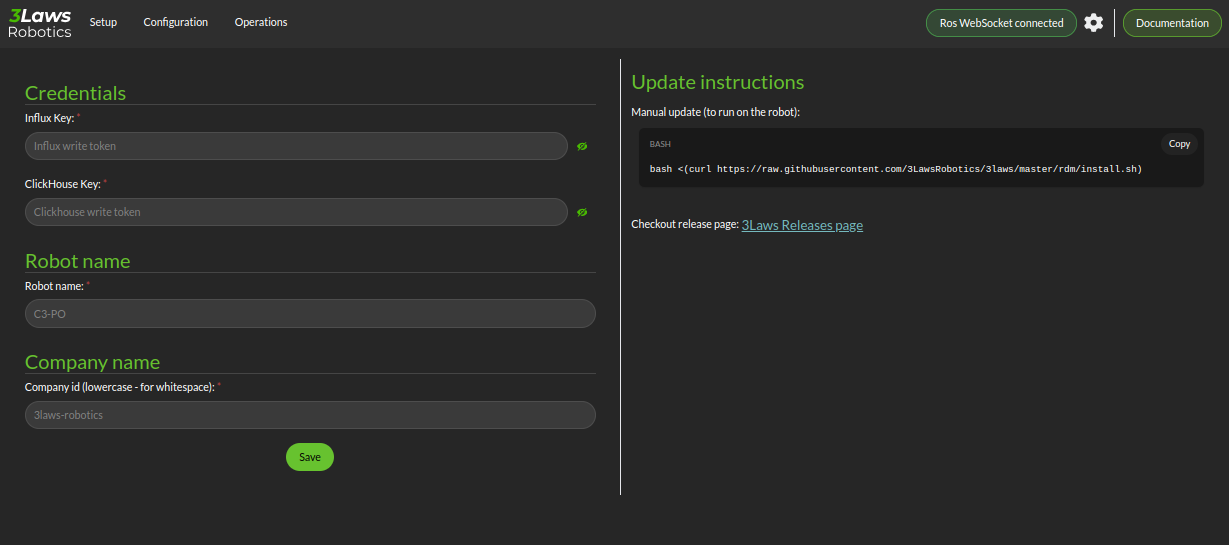
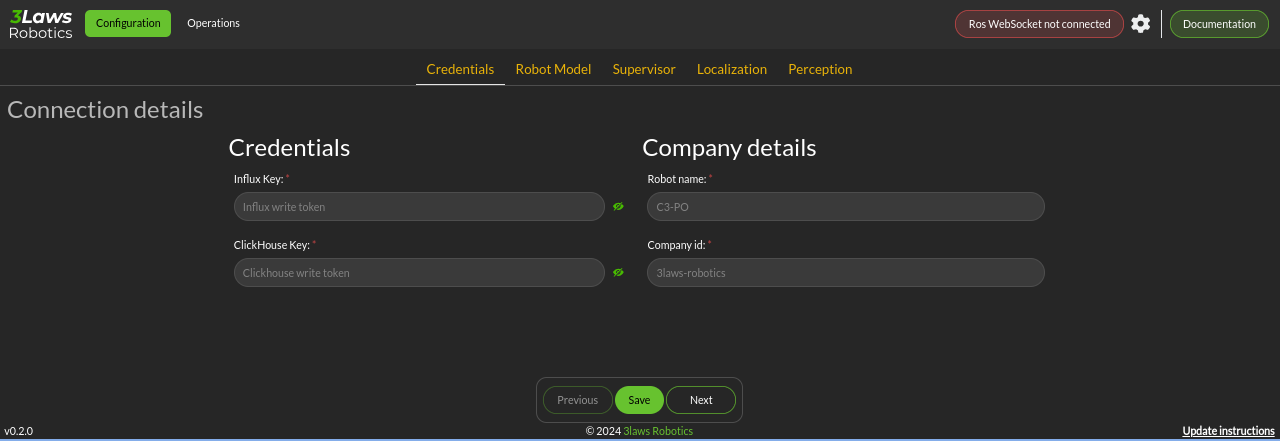
updates - completed initial configuration section

diff --git a/docs/sources/getting_started.rst b/docs/sources/getting_started.rst
@@ -1,7 +1,17 @@
 Getting Started
-===============
+###############
 
 This guide will help you install and configure the 3Laws Supervisor on your robot.
+
+3Laws Supervisor is designed for installation on Ubuntu systems with ROS1 or
+ROS2 already deployed on the computer.  The Supervisor is roughly made up of 3 functionalities that are discussed in this manual:
+
+#. Robot Diagnostics Module (RDM): A tool to collect metrics about the system operation in real time.  Some of the threshold violations are published in real-time locally, and some are published only in aggregated fashion. The published messages can be sent to a cloud-based dashboard server or can be used locally for decision making by customer software.
+
+#. RunTime Assurance (RTA) or "Copilot": This is a "safety filter" that takes the information about collision threshold violations from RDM and produces corrective actions to keep the robot away from the possible collision.  By default, this capability is no active.
+
+#. Control Panel: A configuration graphical (browser-based) tool is available to help set the Supervisor up for the robot.
+   
 
 .. contents:: Table of Contents
    :depth: 2
@@ -9,19 +19,28 @@ This guide will help you install and configure the 3Laws Supervisor on your robo
 
 
 1. Installation
----------------
+***************
 
-3Laws Supervisor is designed for installation on Ubuntu systems with ROS1 or
-ROS2 already deployed on the computer.
 To start the installation of Supervisor on your system, open a terminal and run the following command:
 
 .. code-block:: bash
 
   bash <(curl https://raw.githubusercontent.com/3LawsRobotics/3laws/master/rdm/install.sh)
 
-This script will download a package from github and will begin the installation. As it proceeds it will try to determine your system's configuration so that
+This script will download a package from github and will begin the installation.Note that the package name starts with "lll-rdm". This represents 3Laws along with the products original name (Robot Diagnostics Module). As the script proceeds it will try to determine your system's configuration so that
 the appropriate components are installed. The script will prompt you
 for help with configuration if it is unable to find your computer's ROS distribution or architecture.
+
+During the execution of the script, several questions will be asked:
+#. A request to confirm the desire to download the package.
+
+#. Confirmation of the desire to install the package.
+
+#. A *sudo* password to be able to install to shared folders (/opt/ros).
+
+#. Confirmation of the desire to *download* the optional Control Panel component which is designed to make the configuration process easier.
+
+#. Confirmation of the desire to *install* the optional Control Panel component.
 
 The script will add components to the global ROS installation.  These new
 components will not be available until the ROS paths are updated. If your configuration automatically runs the ROS setup script when a new shell is started, please close the terminal and open a new one.  Otherwise, please run the following command:
@@ -33,7 +52,7 @@ components will not be available until the ROS paths are updated. If your config
 The Supervisor will now be available for operation.
 
 2. Configuration
-----------------
+****************
 
 The 3Laws Supervisor is able to support several different types of robots and it
 needs to connect to your system's data sources and sinks.  The configuration process aims to specify this type of information.
@@ -41,7 +60,7 @@ needs to connect to your system's data sources and sinks.  The configuration pro
 A graphical (browser-based) configuration tool (called **Control Panel**) is
 available to help with the configuration effort.
 
-Open a browser window and navigate to the address `http://localhost:8000`.
+After installation open a browser window and navigate to the address `http://localhost:8000`.
 If this window does not appear, please manually start the Control Panel server
 with the command:
 
@@ -62,11 +81,16 @@ server (where <rosdistro> is replaced with the version of ROS on your system):
 This will provide a websocket server at `ws://localhost:9090` that the control panel can connect to in order to retrieve topics and services information.
 
 
-The first configuration page ("Setup") is the following:
+The initial of the Control Panel is the "Configuration" page, which consists of sections (tabs) listed as *Credentials*, *Robot Model*, *Supervisor*, *Localization*, and *Perception*.
+
+Credentials
+===========
+
+The *Credentials* page is displayed here:
 
 .. image:: data/cpanel1.png
    :width: 800px
-   :alt: Initial Control Panel page presenting Credentials, Robot name, and Company name
+   :alt: Configuration > Credentials: Control Panel page presenting Credentials, Robot name, and Company ID
 
 The 3Laws Supervisor is designed to work in conjunction with a cloud-based server.  When you purchase the Supervisor, 3Laws will provide you with the
 credentials to connect to the web-based server and with the official company
@@ -74,93 +98,165 @@ name that is used for your serivces.
 
 - **Credentials**: 3Laws will provide you with an Influx Key and a ClickHouse key so that your robot can connect to the cloud-based server and can send its summarized information for display through Grafana.
 - **Robot Name**: This identifier will be different for each robot where you install Supervisor.  It should contain a name you can use to identify an individual robot.
-- **Company Name**: As part of the registration process, your company's name will be used to create an account on the cloud server. Please make sure that the name matches what 3Laws used to create your account.  This name is used for logging into the cloud server.
+- **Company ID**: As part of the registration process, your company's name will be used to create an account on the cloud server. Please make sure that the name matches what 3Laws used to create your account.  This name is used for logging into the cloud server.
 
-The right half of this panel contains the Rosbridge connection status (upper right), configuration for the Rosbridge (gear next to the status), and a link to this documentation.  The "Update Instructions" section is purely informational.
+The upper-right of the display contains the Rosbridge connection status (upper right), configuration for the Rosbridge (gear next to the status), and a link to this documentation.  There is an "Update Instructions" link in the lower right that brings up a reminder of the instruction to run the installer script.
 
 The **Save** button on each page of the Control Panel should be pressed before moving on to another page.
 
-The next section of the Control Panel is the "Configuration" page, which consists of sections (tabs) listed as *Robot Model*, *Supervisor*, *Localization*, and *Perception*.
 
 Robot Model
------------
+===========
 The Configuration page for the Robot Model is where the robot's geometry and kinematics are specified.
 
 .. image:: data/cpanel2.png
    :width: 800px
    :alt: Configuration > Robot Model page where the kinematics and geometry are specified. 
 
-Throughout this documentation, a red asterisk (<span style="color:red">*</span>) indicates a *required* field.
+Throughout this documentation, a red asterisk (*) indicates a *required* field.
   
 - **Robot Type**: Supervisor currently supports differential drive, front-steered, and omni-directional mobile platforms.  A differential drive vehicle can rotate around a fixed location by driving one wheel forward and its pair in reverse. It can move forward or backwards by driving both wheels in the same direction.  A front-steered vehicle operates like a car or bicycle. It can move forwards or backwards, but direction is controlled by steering, and the vehicle has a fixed wheelbase distance between the forward axle and the rear axle. An omni-directional robot is usually implemented using wheels that have a series of smaller wheels mounted at 45 degrees on the outer rim.  By moving one axle forward and others backwards, the vehicle can move sideways. Rotation can be effected by moving the wheels on one side forwards and the wheels on the other side in reverse. 
-- **Kinematics**: The vehicle's geometry and the name of the base frame (e.g. base_link, chassis, body) are specified in this section.
+- **Frames and Shapes**: The vehicle's reference frames and geometry are specified in this section.
 
   * Frames: The name of the robot base frame must be specified here. Additional static frames can be defined by clicking the + icon. The additional frames are static, and will follow the motion of the base robot frame.
 
-  * Shape: The robot's shape is used in order to calcuate the distance between the outer boundaries of the robot body and any scan points.  Basic shapes that are curently supported include sphere, box, capsule, point, cone and cylinder.  The parameter entries change based on the selected shape. Cylinders and capsules both require length and radius. The difference is that a capsule will have hemispheres on the ends while the cylinder ends are flat.
+  * Shape: The robot's shape is used in order to calculate the distance between the outer boundaries of the robot body and any scan points.  Basic shapes that are currently supported include sphere, box, capsule, point, cone and cylinder.  The size entries change based on the selected shape. Cylinders and capsules both require length and radius. The difference is that a capsule will have hemispheres on the ends while the cylinder ends are flat. A box frame consists of x-length, y-length, and z-length.
 
-   * Shape Pose in Robot Frame: The relative orientation of the robot's shape with respect to the base frame needs to be specified. Note that the rotation can be specified either using quaternions or Euler angles. The quaternion order is w, x, y, z.
+   * Shape Pose in Robot Frame: The relative orientation of the robot's shape with respect to the base frame needs to be specified. Note that the rotation can be specified either using quaternions or Euler angles. The quaternion order is w, x, y, z.  When Supervisor is running, it is a good idea to run rviz (or rviz2) to display the orientations and frames.
 
 - **Dynamics**: The Dynamics section has 3 subsections: Input, Parameters, and State.
   
-  * The Input section supports specification of maximum and minimum limits for the translational and rotational speeds at which the robot can be commanded. For monitoring, if these values are exceeded, an event to this effect will be issued. If the RTA component is active, these limits will be applied to the filtered outpus. For steered vehicles, instead of limits on rotational speeds, steering limits are specified.
+  * The Input section supports specification of maximum and minimum limits for the translational and rotational speeds at which the robot can be commanded. For monitoring, if these values are exceeded, an event to this effect will be issued. If the RTA/Copilot component is active, these limits will be applied to the filtered outputs. For steered vehicles, instead of limits on rotational speeds, steering limits are specified.
 
   * Parameters: The only robot type that has inputs in the parameters section is the steered robot. *wheel_dx* is the wheelbase length for the vehicle. *origin_x* is the distance from the rear axle to the robot base frame.
 
   * State: For all robot types, the State category provides the definitions of the variables that are considered as the "states".  These definitions are important when trying to create "masks" to map between the input ROS variable types and the robot states.  The first, is considered state 0 (typically x position), the second is state 1 (typically y position) and the third is state 2 (typically yaw).
 
-Remeber to save each page after inputing the data.
+Remember to save each page after inputing the data.
 
 Supervisor
-----------
+==========
 
-The Configuration > Supervisor page contains configuraiton entries for both the RDM (monitor) and RTA (Copilot) components.
+The Configuration > Supervisor page contains configuration entries for both the RDM (monitor) and RTA (Copilot) components.
 
 .. image:: data/cpanel3.png
    :width: 800px
-   :alt: Configuration > Supervisor page where monitoring thresholds and run-time assurance settings are available. 
+   :alt: Configuration > Supervisor page where robot diagnostic monitoring thresholds and run-time assurance settings are available. 
 
 
-- **Basic configuration monitor**: There is a checkbox that needs to be select if there is a desire to upload statistics to the cloud database.
+- **Basic configuration**: To enable broadcasting of the aggregated statistics to the cloud account, select the *Upload metrics to cloud database" box.
 
   * World Frame: Similar to "base robot frame", the name of the world frame (typically *odom* or *map*) must be specified.
-  * Advanced Settings: Max delay (s) and Timeout Factor are thresholds for triggering events informing that data failed to arrive (if data is not received for max-delay * timeout-factor seconds.  If the copilot (run-time assurance) is active, failure to receive robot state or desired control input (in timeout factor * 1/signal-rate) will cause the copilot to switch to the Failure Command Mode (which is explained below).
-  * Copilot
     
-    * Activate: This checkbox controls whether the run-time assurance intercepts and modifies commands from the planner/trajectory generator and forwards modified versions to the vehicle.
+    * Advanced Settings: Max delay (s) and Timeout Factor are thresholds for triggering events informing that data failed to arrive (if data is not received for max-delay * timeout-factor seconds.  If the copilot (run-time assurance) is active, failure to receive robot state or desired control input (in timeout factor * 1/signal-rate) will cause the copilot to switch to the Failure Command Mode (which is explained below).
+  * Copilot : The Copilot enables the run-time assurance capability where desired commands to the robot from the autonomy stack ("desired inputs") are modified in order to avoid collisions, and altered versions are published through a separate message. 
+    
+    * Activate: This checkbox controls whether the run-time assurance intercepts and modifies commands from the planner/trajectory generator and forwards modified versions to the vehicle. The Copilot will only modify the outputs if the option is activated.  If it is not activated, the un-modified "desired control input" will be transmitted on the designated "Computed safe control" message. 
       
-    * Aggressiveness: This parameter controls when the safety filter starts having more effect on the commands and how strongly the safety filter pushes the robot back into the "safe" region if the safety definition has been violated.  A larger value means that the control inputs from the planner will start to be modified when the robot is farther from an object/obstacle.  In general this will produce larger margins.  A larger value also means that if an obstacle is detected within the collision distance, the command modified by the run-time assurance will try to move the robot away from the object more aggressively.  Typical values are between 0.5 and 1.0.
+    * Aggressiveness: This parameter controls how far from the nearest obstacle the safety filter starts having more effect on the commands and how strongly the safety filter pushes the robot back into the "safe" region if the safety definition has been violated.  A larger value means that the control inputs from the planner will start to be modified when the robot is farther from an object/obstacle.  In general this will produce larger margins.  A larger value also means that if an obstacle is detected within the collision distance, the command modified by the run-time assurance will try to move the robot away from the object more aggressively.  Typical values are between 0.5 and 1.0, but values in the range of 1000 might be used in reasonable situations.  A smaller value means that the the robot will get closer to the obstacles (higher performance) before being diverted. 
 
- The following are under the "Advanced Settings":
+ The following are under the "Advanced Settings".  If the Copilot is activated, these should be customized:
 
-     * Failure Command Mode: The run-time assurance constantly monitor to ensure that it has enough data to determine whether the robot is in a safe condition. The minimum data required is the vehicle state, the laser scan values, and the commanded/desired input.  If any of these is missing the RTA can switch to the failure command mode:
+      * Failure Command Mode: The run-time assurance constantly monitors to ensure that it has enough data to determine whether the robot is in a safe condition. The minimum data required is the vehicle state, the laser scan values, and the commanded/desired input.  If any of these is missing the RTA can switch to the failure command mode:
 
-      * Send Zero:  In this mode the run-time assurance commands zero speed and zero turn/rotation in order to bring the vehicle to a stop.
+        * Send Zero:  In this mode the run-time assurance commands zero speed and zero turn/rotation in order to bring the vehicle to a stop.
 
-      * Do not Publish:  Another option is to stop publishing values.  This option should only be used if the robot has its own mechanism to put itself in a safe condition if it is not receiving commands.
+        * Do not Publish:  Another option is to stop publishing values.  This option should only be used if the robot has its own mechanism to put itself in a safe condition if it is not receiving commands.
 
-      * Send desired: If there is a data dropout for the state or the laser scan, the RTA can instead just forward the control input that it is filtering without any modifications for safety.
-  
-      * Send Failsafe: This option is for future expansion - do not use at this time.
+      * Yield on failure:  This checkbox is like the "Send Desired" option.  Setting this checkbox will override the failure control mode and just forward the "Desired control input" unmodified.
+      * Can resume from failure: With this checkbox filled in, once the input data (control input, laser scan, and state) values start appearing after a failure, the robot will be commanded back into motion (if the desired control input is asking for that).  If the box is unchecked once there is a failure, the robot will remain stopped until the Supervisor is restarted.
 
-    * Yield on failure:  This checkbox is like the "Send Desired" option.  Setting this checkbox will override the failure control mode and just forward the input.
-    * Can resume from failure: With this checkbox filled in, once the input data (control input, laser scan, and state) values start appearing after a failure, the robot will be commanded back into motion (if the desired control input is asking for that).  If the box is unchecked once there is a failure, the robot will remain stopped until the Supervisor is restarted.
+      * Use localization:  Supervisor provides a MarkerArray that displays the robot's bounding box and rays to the closest obstacles.  If "Use Localization" is set, the display is created relative to the world frame.  In situations where the localization may be less reliable, this checkbox can be de-selected, and the visualization will be based on the current robot base frame.
 
-    * Use localization:  Supervisor provides a MarkerArray that displays the robot's bounding box and rays to the closest obstacles.  If "Use Localization" is set, the display is created relative to the world frame.  In situations where the localization may be less reliable, this checkbox can be de-selected, and the visualization will be based on the current robot base frame.
+      * Accept wrong size laserscan: One of the checks that is made on the incoming data is that the laserscan is delivering the expected number of scan points each frame. However, there are many laser scanners that are not consistent in the number of scan points they deliver.  Checking this option allows for laser scanners with non-constant number of scan points reported.
 
-    * Accept wrong size laserscan: One of the checks that is made on the incoming data is that the laserscan is delivering the expected number of scan points each frame. However, there are many laser scanners that are not consistent in the number of scan points they deliver.  Checking this option allows for laser scanners with non-constant number of scan points reported.
+      * **Collision distance threshold**:  This is one of the most important values to set. This defines the distance between the edge of the robot and the nearest scan at which safety exists.  If the measured distance drops below this value, the system is considered to be in an "unsafe" configuration.
 
-    * **Collision distance threshold**:  This is one of the most important values to set. This defines the distance between the edge of the robot and the nearest scan at which safety exists.  If the measured distance drops below this value, the system is considered to be in an "unsafe" configuration.
+      * Filter rate (hz): The frequency at which the run-time assurance publishes outputs.  It is recommended that the run-time assurance run at the same rate as the desired control input or at a faster rate.
 
-    * Filter rate (hz): This is the frequency at which the run-time assurance runs.  It is recommended that the run-time assurance run at the same rate as the desired control input or at a faster rate.
+      * Conservativeness: A factor that specifies how much uncertainty the robot operator thinks there is in the localization and sensor data.  The ratio between aggressiveness and conservativeness is the main controller of the behavior.  Values below 0.1 are recommended.
 
-    * Conservativeness: This is a factor that specifies how much uncertainty the robot operator thinks there is in the localization and sensor data.  The ratio between aggressiveness and conservativeness is the main controller of the behavior.  Values below 0.1 are recommended.
-      
-- **State**: The state interface of your robot and safety constraints.
-- **Perception**: The perception interface of your robot.
+- **Copilot input interception**: This section relates to republishing the control commands to the robot that are being sent from the autonomy stack.  The values will be published on the *lll/metrics/high_frequency/safe_control_inputs* channel if the Copilot is activate or not.  However, the values will only be different from the *Desired control input* if the Copilot is active.
+
+  * Desired control Input: This is the commands requesting speed and rotation (or speed and steering) that the autonomy stack is publishing. The ROS message type is needed so that the RDM knows what to monitor in order to calculate the barrier function value. The message quality and receipt rate are monitored as part of the aggregated metrics, and if it fails to arrive within the expected time [1/(signal rate) * Timeout factor], an event will be created and the Copilot will transition to the failure command mode.
+
+  * Safe Control Signal: The right side of this area is purely informational. However, if the robot is to be controlled by the run-time assurance signal, it needs to subscribe to the message that is presented here.
+
+- **Supervisor activation logic**:
+
+  * Finite States are messages that the Diagnostics can listen to and issue events when the value of the finite state matches a pre-defined value.  This could be useful to adivse, for example, as the temperature of a component or process reaches pre-defined values.  If the temperature goes too high or too low, the time at which the threshold is reached may be of interest.  Keep in mind that if a value changes too rapidly, it might pass through a single value too quickly to be detected at that value, so in some cases it may make more sense to use an integer representation of the variable.   Internally, the diagnostic converts the measurand and the threshold to strings for comparison.
+
+Localization
+============
+
+Dialogs to connect to the state information provided for the robot and for configuring alerts based on state are on the Configuration > Localization page. contains configuration entries for both the RDM (monitor) and RTA (Copilot) components.
+
+.. image:: data/cpanel4.png
+   :width: 800px
+   :alt: Configuration > Localization page where monitoring of the vehicles location/state is configured. 
+
+
+- **Localization topic**: The connection to the ROS state topic is configured in this area. As with input commands, the message topic name, message topic type, expected message topic quality, and expected message rates are specified. If the message quality fails or the message receipt rate is not met, the monitor will issue allerts, and the Copilot will switch to the Failsafe strategy.  The mask can be used to **NEED HELP UNDERSTANDING HOW THE MASK IS USED**
+
+
+- **Robot state constraints**: Limits on the absolute location (relative to the origin of the world frame) and limits on the measured rates of change (with respect to time) of the vehicle state are set in this area in order to trigger events and alerts for the monitoring function.  The "no bounds" option allows infinite travel in the respective directions or speeds.
+    
+
+Perception
+============
+
+The collision avoidance depends mostly on the Configuration > Perception dialog where the connection and description of either a laserscan sensor or an obstacle map message is configured.  
+
+.. image:: data/cpanel5.png
+   :width: 800px
+   :alt: Configuration > Perception page: The laserscan or list of obstacles is configured here. 
+
+- **Laserscan sensor**: The Supervisor can handle data points from one 2-dimensional laser (LIDAR) scanner.
+
+  * Display name: A user-specified name can be provided so that diagnostic information can quickly be understood.
+
+  * ROS Topic: The ROS message name, topic type, quality of service and Signal Rate must all be specified so that the Supervisor can subscribe to the sensor data.
+
+  * Specs:  The expected number of points per scan along with the first (typically minimum) and last (typically maximum) angle must be specified so that the angular resolution can be calculated for the nominal case. The first and last angle values should normally describe a laser that scans in the clockwise direction, so the first is smaller than the last. However, if the laser scans in the counter-clockwise direction the first angle should be set to be smaller than the last.  It is very important that the total range of the laser is less than 2π.  The Supervisor does not disambiguate angles if the total field is larger than 2π.  The scanner's range can be set so that readings smaller than the minimum or larger than the maximum are discarded.
+
+  * Laserscan Pose: The orientation and position of the laserscan relative to the vehicle body or whichever frame is used must be specified. As with the robot's body position, the user is advised to plot the data in rviz to ensure that the geometry is set correctly.
+
+- **Obstacle Map**: An existing perception system can be used instead of a 2D-LIDAR, but it most provide an ObjectArray that matches the definition for an lllₘsgs/ObjectArray.  The definition is as follows:
+
+  std_msgs/Header header
+  Object[] objects
+
+where Object[] is defined by:
+  std_msgs/Header header
+
+  # Identifier of the object
+  string id
+
+  # Object geometry, and pose of geometry in object frame
+  ObjectGeometry geometry
+
+  # Object pose world frame
+  geometry_msgs/PoseWithCovariance pose
+  # Object velocity in object frame
+  geometry_msgs/TwistWithCovariance velocity
+
+  # Object behavior model
+  ## Bounds on object frame velocity (considered inactive if non finite)
+  geometry_msgs/Twist velocity_upper_bounds
+  geometry_msgs/Twist velocity_lower_bounds
+  ## Bounds on object frame velocity norms (considered inactive if stricly less than 0)
+  float64 linear_velocity_norm2_bound
+  float64 angular_velocity_norm2_bound
+  ## Bounds on object frame acceleration  (considered inactive if non finite)
+  geometry_msgs/Accel acceleration_upper_bounds
+  geometry_msgs/Accel acceleration_lower_bounds
+  ## Bounds on object frame acceleration norms (considered inactive if stricly less than 0)
+  float64 linear_acceleration_norm2_bound
+  float64 angular_acceleration_norm2_bound
+
 
 3. Launch
----------
+*********
 
 Before starting the supervisor be sure to have your ROS environment correctly set up and sourced.
 
@@ -175,7 +271,7 @@ To launch the Supervisor you can use the following command:
   ros2 launch lll_rdm rdm.launch.py
 
 4. Monitor
-----------
+**********
 
 Thanks to the websocket server, you can monitor the Supervisor using the Control Panel.
 Go to the Operations tab verify that the Supervisor is running and that the state and perception interfaces are correctly connected.
